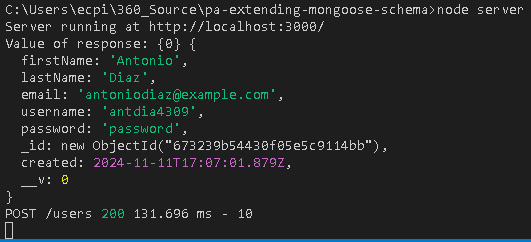
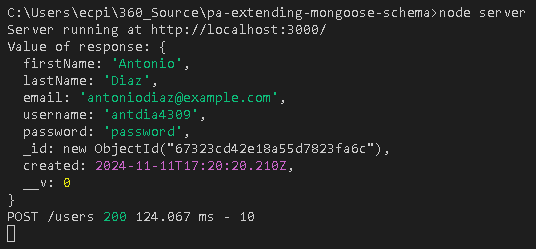
Updated the user.server.model.js

diff --git a/app/controllers/user.server.controller.js b/app/controllers/user.server.controller.js
@@ -4,10 +4,10 @@ exports.create = async function(req, res){
     const user = new User(req.body);
     await user.save()
     .then((response) => {
-        console.log('Value of response: {0}', response);
+        console.log('Value of response:', response);
         res.status(200).send("User Added");
     })
     .catch((error)=> {
-        console.error('Could not save user: {0}', error);
+        console.error('Could not save user:', error);
     });
 };
